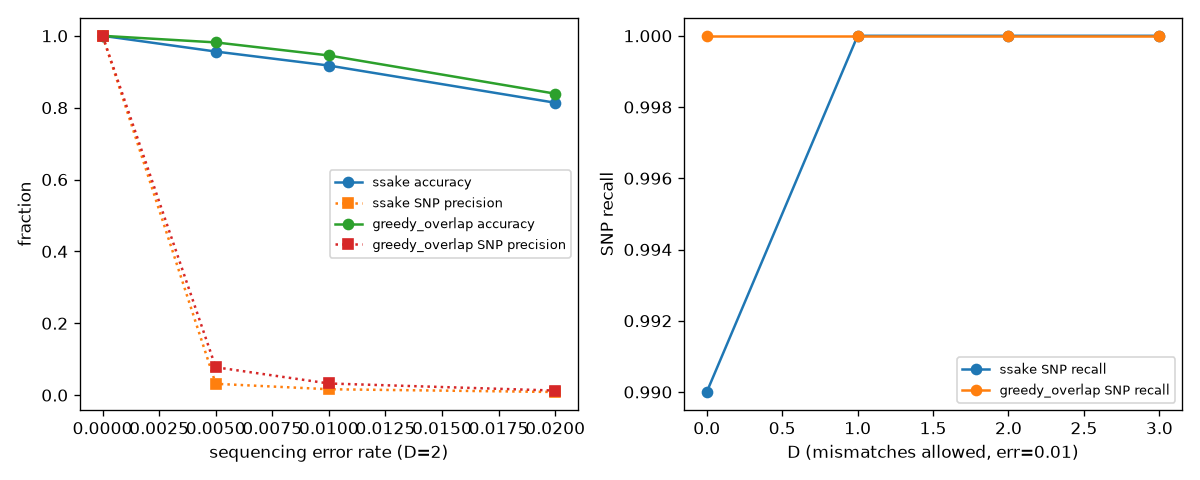
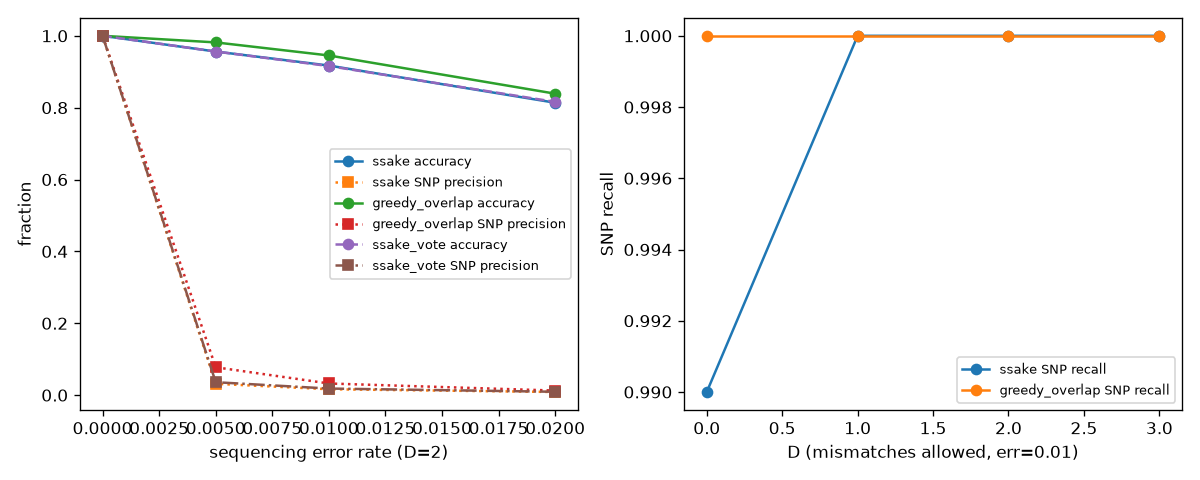
feat: majority-vote extension for reads with errors
Adds --vote 1 to ssake. Every valid unused read votes on the next base
at its own offset; a base needs 2 voters and a 2/3 share, or a single
voter. Vote rows (ssake_vote) are added to step 5. The vote does not
improve accuracy or precision at err 0.01 (see README 4.7).

diff --git a/src/ssake.cpp b/src/ssake.cpp
@@ -53,7 +53,11 @@ inline bool overlap_ok(const PackedReads& r, size_t id, int rs, const std::strin
 // Assembles reads with seed-and-extend. Seeds are taken in input order; each
 // seed is extended at its 3' end, then at its 5' end, using only unused reads.
 // The index key is capped at 32 bases; the whole overlap is checked for mismatches.
-inline std::vector<std::string> assemble_ssake(PackedReads reads, int o, int D) {
+// vote=false: the first valid read at the largest overlap extends the contig in one step.
+// vote=true: every valid unused read (any overlap >= o) votes on the next base, each
+// read at its own offset. A base is added with at least 2 voters and a top share of
+// at least 2/3, or when a single voter is left (no conflict to resolve).
+inline std::vector<std::string> assemble_ssake(PackedReads reads, int o, int D, bool vote) {
     if (o < 1) throw std::invalid_argument("min overlap must be >= 1");
     if (reads.size() == 0) return {};
     if (o >= reads.L) throw std::invalid_argument("min overlap must be shorter than the reads");
@@ -74,43 +78,121 @@ inline std::vector<std::string> assemble_ssake(PackedReads reads, int o, int D) 
         used[s] = true;
         std::string contig = reads.str(s);
 
-        // 3' extension: a read whose prefix overlaps the contig's end.
+        // Caps contig growth so a repeat-driven vote cannot loop forever.
+        const size_t cap = m * (size_t)L;
+
+        // 3' extension: reads whose prefix overlaps the contig's end.
         for (bool extended = true; extended;) {
             extended = false;
-            int kmax = std::min((int)contig.size(), L - 1);
-            for (int k = kmax; k >= o && !extended; --k) {
+            const int kmax = std::min((int)contig.size(), L - 1);
+            std::vector<size_t> cand; // read ids
+            std::vector<int> ov;      // overlap length of each candidate with the contig end
+            for (int k = kmax; k >= o && (vote || cand.empty()); --k) {
                 uint64_t key = kmer_code(contig, contig.size() - k + kk - 1, kk);
                 auto [lo, hi] = prefixIdx.range(key);
-                for (size_t x = lo; x < hi && !extended; ++x) {
+                for (size_t x = lo; x < hi && (vote || cand.empty()); ++x) {
                     size_t id = prefixIdx.ids[x];
-                    if (used[id]) continue;
+                    if (used[id] || std::find(cand.begin(), cand.end(), id) != cand.end()) continue;
                     if (overlap_ok(reads, id, 0, contig, contig.size() - k, k, D)) {
-                        for (int i = k; i < L; ++i) contig.push_back(reads.base(id, i));
-                        used[id] = true;
-                        extended = true;
+                        cand.push_back(id);
+                        ov.push_back(k);
                     }
                 }
             }
-        }
+            if (cand.empty()) break;
 
-        // 5' extension: a read whose suffix overlaps the contig's start.
-        for (bool extended = true; extended;) {
-            extended = false;
-            int kmax = std::min((int)contig.size(), L - 1);
-            for (int k = kmax; k >= o && !extended; --k) {
-                uint64_t key = kmer_code(contig, k - 1, kk);
-                auto [lo, hi] = suffixIdx.range(key);
-                for (size_t x = lo; x < hi && !extended; ++x) {
-                    size_t id = suffixIdx.ids[x];
-                    if (used[id]) continue;
-                    if (overlap_ok(reads, id, L - k, contig, 0, k, D)) {
-                        std::string pre;
-                        for (int i = 0; i < L - k; ++i) pre.push_back(reads.base(id, i));
-                        contig = pre + contig;
-                        used[id] = true;
-                        extended = true;
+            if (!vote) {
+                for (int i = ov[0]; i < L; ++i) contig.push_back(reads.base(cand[0], i));
+                used[cand[0]] = true;
+                extended = true;
+                continue;
+            }
+            // Vote one base at a time. Candidate i supplies read base ov[i] + t.
+            std::vector<bool> active(cand.size(), true);
+            int t = 0;
+            while (contig.size() < cap) {
+                int cnt[4] = {0, 0, 0, 0}, total = 0;
+                for (size_t i = 0; i < cand.size(); ++i) {
+                    if (active[i] && ov[i] + t < L) {
+                        cnt[base_index(reads.base(cand[i], ov[i] + t))]++;
+                        total++;
                     }
                 }
+                if (total == 0) break;
+                int best = 0;
+                for (int b = 1; b < 4; ++b) if (cnt[b] > cnt[best]) best = b;
+                if (total > 1 && cnt[best] * 3 < total * 2) break;
+                char bc = "ACGT"[best];
+                contig.push_back(bc);
+                for (size_t i = 0; i < cand.size(); ++i) {
+                    if (active[i] && ov[i] + t < L && reads.base(cand[i], ov[i] + t) != bc) active[i] = false;
+                }
+                ++t;
+            }
+            if (t == 0) break;
+            extended = true;
+            // A candidate is consumed once the vote has passed it: it either finished
+            // (its last base is in the contig) or it disagreed on a base and was dropped.
+            for (size_t i = 0; i < cand.size(); ++i) {
+                if (!active[i] || ov[i] + t >= L) used[cand[i]] = true;
+            }
+        }
+
+        // 5' extension: reads whose suffix overlaps the contig's start.
+        for (bool extended = true; extended;) {
+            extended = false;
+            const int kmax = std::min((int)contig.size(), L - 1);
+            std::vector<size_t> cand;
+            std::vector<int> ov;
+            for (int k = kmax; k >= o && (vote || cand.empty()); --k) {
+                uint64_t key = kmer_code(contig, k - 1, kk);
+                auto [lo, hi] = suffixIdx.range(key);
+                for (size_t x = lo; x < hi && (vote || cand.empty()); ++x) {
+                    size_t id = suffixIdx.ids[x];
+                    if (used[id] || std::find(cand.begin(), cand.end(), id) != cand.end()) continue;
+                    if (overlap_ok(reads, id, L - k, contig, 0, k, D)) {
+                        cand.push_back(id);
+                        ov.push_back(k);
+                    }
+                }
+            }
+            if (cand.empty()) break;
+
+            if (!vote) {
+                std::string pre;
+                for (int i = 0; i < L - ov[0]; ++i) pre.push_back(reads.base(cand[0], i));
+                contig = pre + contig;
+                used[cand[0]] = true;
+                extended = true;
+                continue;
+            }
+            // Vote one base at a time, moving left. Candidate i supplies read base
+            // L - ov[i] - 1 - t.
+            std::vector<bool> active(cand.size(), true);
+            int t = 0;
+            while (contig.size() < cap) {
+                int cnt[4] = {0, 0, 0, 0}, total = 0;
+                for (size_t i = 0; i < cand.size(); ++i) {
+                    if (active[i] && ov[i] + t < L) {
+                        cnt[base_index(reads.base(cand[i], L - ov[i] - 1 - t))]++;
+                        total++;
+                    }
+                }
+                if (total == 0) break;
+                int best = 0;
+                for (int b = 1; b < 4; ++b) if (cnt[b] > cnt[best]) best = b;
+                if (total > 1 && cnt[best] * 3 < total * 2) break;
+                char bc = "ACGT"[best];
+                contig.insert(contig.begin(), bc);
+                for (size_t i = 0; i < cand.size(); ++i) {
+                    if (active[i] && ov[i] + t < L && reads.base(cand[i], L - ov[i] - 1 - t) != bc) active[i] = false;
+                }
+                ++t;
+            }
+            if (t == 0) break;
+            extended = true;
+            for (size_t i = 0; i < cand.size(); ++i) {
+                if (!active[i] || ov[i] + t >= L) used[cand[i]] = true;
             }
         }
         contigs.push_back(std::move(contig));
@@ -118,32 +200,37 @@ inline std::vector<std::string> assemble_ssake(PackedReads reads, int o, int D) 
     return contigs;
 }
 
+inline std::vector<std::string> assemble_ssake(PackedReads reads, int o, int D) {
+    return assemble_ssake(std::move(reads), o, D, false);
+}
+
 // Convenience overload for in-memory reads of one length.
 inline std::vector<std::string> assemble_ssake(const std::vector<std::string>& input, int o, int D) {
     PackedReads p;
     for (const std::string& r : input) p.push(r);
-    return assemble_ssake(std::move(p), o, D);
+    return assemble_ssake(std::move(p), o, D, false);
 }
 
 #ifndef SSAKE_NO_MAIN
 int main(int argc, char** argv) {
     std::string reads_path, out_path;
-    int o = 15, D = 2;
+    int o = 15, D = 2, vote = 0;
     for (int a = 1; a + 1 < argc; a += 2) {
         std::string flag = argv[a];
         std::string val = argv[a + 1];
         if (flag == "--reads") reads_path = val;
         else if (flag == "--o") o = std::stoi(val);
         else if (flag == "--D") D = std::stoi(val);
+        else if (flag == "--vote") vote = std::stoi(val);
         else if (flag == "--out") out_path = val;
         else { std::cerr << "unknown flag " << flag << "\n"; return 1; }
     }
     if (reads_path.empty() || out_path.empty()) {
-        std::cerr << "usage: ssake --reads FILE --o O --D D --out FASTA\n";
+        std::cerr << "usage: ssake --reads FILE --o O --D D [--vote 0|1] --out FASTA\n";
         return 1;
     }
     try {
-        write_fasta(out_path, assemble_ssake(load_reads_packed(reads_path), o, D));
+        write_fasta(out_path, assemble_ssake(load_reads_packed(reads_path), o, D, vote != 0));
     } catch (const std::exception& e) {
         std::cerr << "error: " << e.what() << "\n";
         return 1;

diff --git a/scripts/run_experiments.py b/scripts/run_experiments.py
@@ -98,8 +98,11 @@ def run_case(step, variable, value, tool, N, L, coverage, snp_count, o,
                     "--out", run_dir], check=True)
     reads = os.path.join(run_dir, "reads.txt")
     contigs = os.path.join(run_dir, f"contigs_{tool}.fa")
+    # "ssake_vote" is the same binary with the majority-vote extension switched on.
+    binary = "ssake" if tool.startswith("ssake") else tool
+    vote_args = ["--vote", "1"] if tool == "ssake_vote" else []
     seconds, peak_mb, _ = run_measured(
-        [exe(tool), "--reads", reads, "--o", str(o), "--D", str(D), "--out", contigs])
+        [exe(binary), "--reads", reads, "--o", str(o), "--D", str(D), *vote_args, "--out", contigs])
 
     out = subprocess.run(
         [exe("evaluate"), "--contigs", contigs, "--ref", ref,
@@ -197,6 +200,9 @@ def step5():
         for t in TOOLS:
             rows.append(run_case(5, "D", d, t, N_BASE, L_DEFAULT, COV_DEFAULT,
                                  snps_for(N_BASE), default_o(L_DEFAULT), D=d, err=0.01))
+    for err in [0, 0.005, 0.01, 0.02]:
+        rows.append(run_case(5, "err", err, "ssake_vote", N_BASE, L_DEFAULT, COV_DEFAULT,
+                             snps_for(N_BASE), default_o(L_DEFAULT), err=err))
     return rows
 
 

diff --git a/tests/test_ssake.cpp b/tests/test_ssake.cpp
@@ -68,5 +68,22 @@ int main() {
         std::vector<std::string> c = assemble_ssake(one, 15, 2);
         assert(c.size() == 1 && c[0] == one[0]);
     }
+
+    // Coverage 6 reads of a 400-base genome; one read carries an error at its 3' end.
+    // vote=true must reproduce the genome exactly.
+    {
+        auto r = make_rng(41);
+        std::string g;
+        for (int i = 0; i < 400; ++i) g.push_back("ACGT"[r() % 4]);
+        PackedReads p;
+        for (int st = 0; st + 50 <= 400; st += 8) {
+            std::string rd = g.substr(st, 50);
+            if (st == 80) rd[49] = rd[49] == 'A' ? 'C' : 'A';
+            p.push(rd);
+        }
+        p.push(g.substr(350, 50));
+        std::vector<std::string> c = assemble_ssake(p, 25, 2, true);
+        assert(c.size() == 1 && c[0] == g);
+    }
     return 0;
 }

diff --git a/scripts/plot.py b/scripts/plot.py
@@ -105,6 +105,10 @@ def plot_step5():
         axes[0].plot(x, y, marker="s", linestyle=":", label=f"{tool} SNP precision")
         x, y = series(rows, tool, "value", "snp_recall", variable="D")
         axes[1].plot(x, y, marker="o", label=f"{tool} SNP recall")
+    x, y = series(rows, "ssake_vote", "value", "accuracy", variable="err")
+    axes[0].plot(x, y, marker="o", linestyle="--", label="ssake_vote accuracy")
+    x, y = series(rows, "ssake_vote", "value", "snp_precision", variable="err")
+    axes[0].plot(x, y, marker="s", linestyle="-.", label="ssake_vote SNP precision")
     axes[0].set_xlabel("sequencing error rate (D=2)")
     axes[0].set_ylabel("fraction")
     axes[1].set_xlabel("D (mismatches allowed, err=0.01)")
